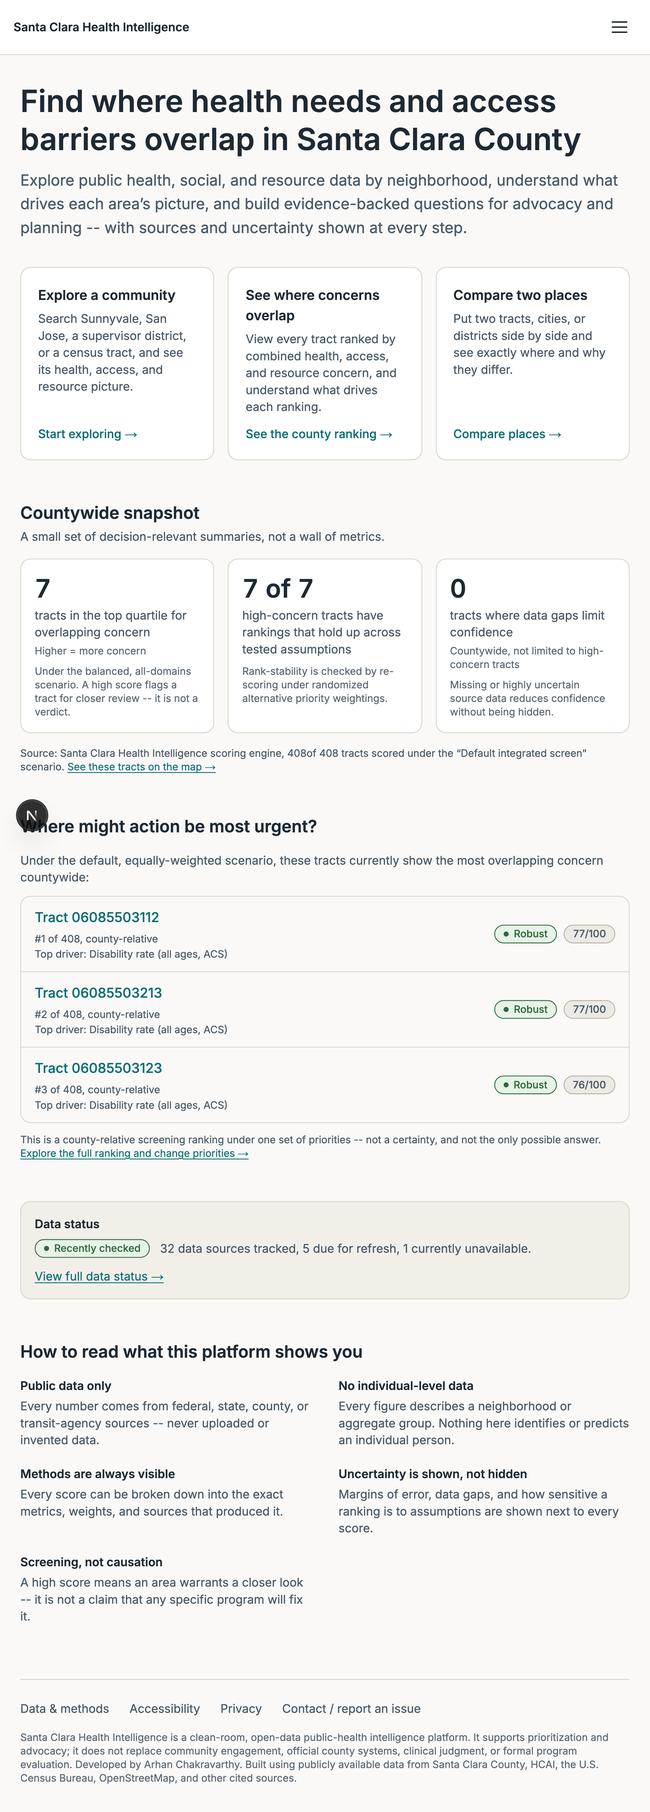
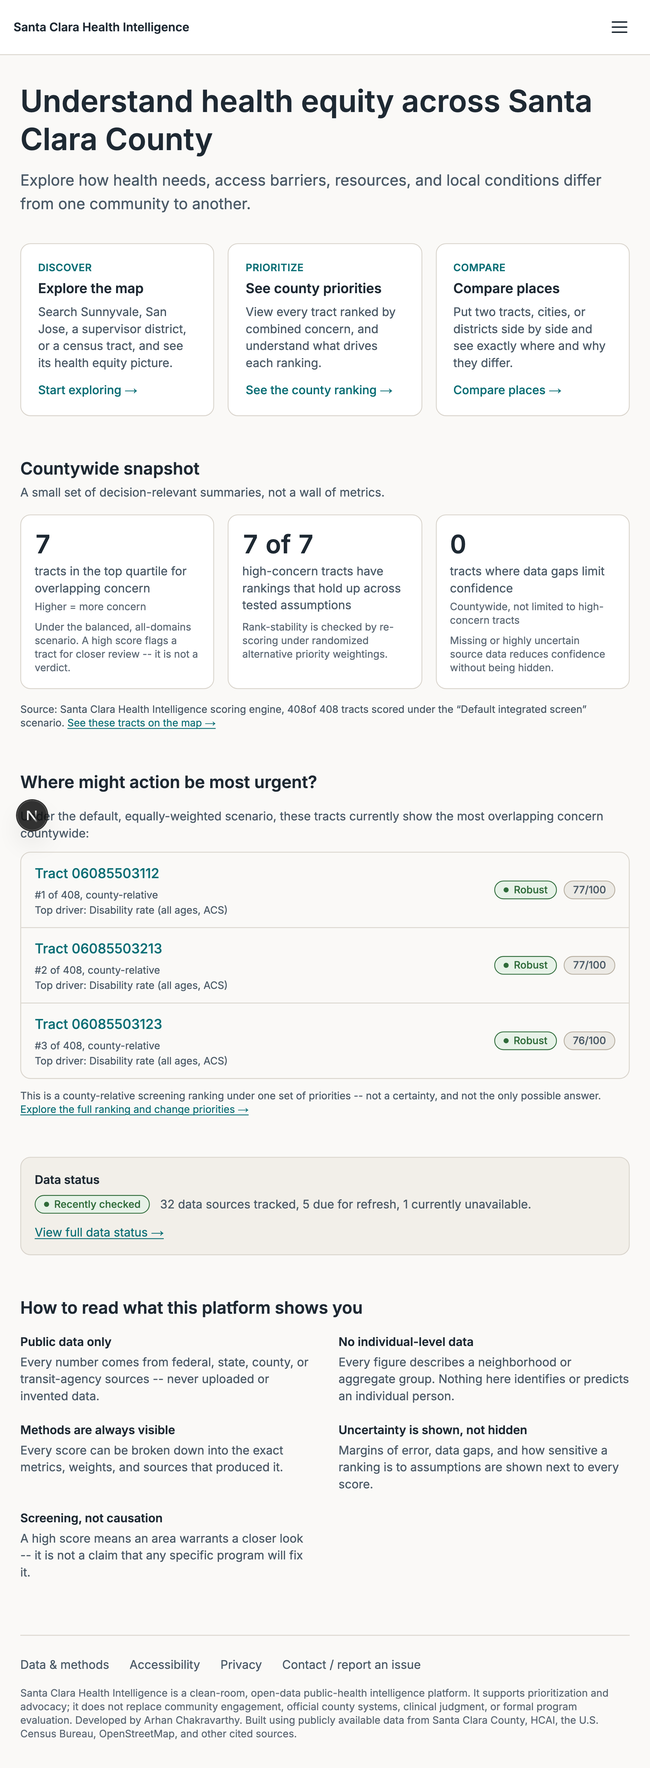
Add health-equity UX consolidation research, review docs, screenshots
docs/design/health-equity-product-consolidation.md: pre-implementation
research against official reference products (Tree Equity Score National
Explorer, CA Healthy Places Index, Health Equity Tracker, County Health
Rankings) for interaction/hierarchy principles only, current page-by-page
problem inventory, target product narrative, desktop/mobile wireframes,
terminology rules, and explicit non-goals.

docs/design/health-equity-product-visual-review.md: post-implementation
verification record -- screenshots inspected, live-interaction checks,
the two usability-review-driven fixes and two self-caught issues (a
buried causal-claim disclaimer, a duplicate confidence badge), the e2e
regressions found and fixed, final test numbers, and known limitations.

Refreshes the 7 Explore/Overview/Prioritize screenshots affected by the
layout and terminology changes.

diff --git a/docs/design/health-equity-product-consolidation.md b/docs/design/health-equity-product-consolidation.md
@@ -1,0 +1,124 @@
+# Health-equity product consolidation and visual polish pass
+
+Prompted by stakeholder feedback (Tara Sreekrishnan): the platform is functionally strong and scientifically careful but still reads as a technical analytics dashboard rather than an immediately intuitive public-interest mapping product. This document records the research, the target product narrative, and the implementation plan for a product-wide consolidation pass, before any code changed. Written on branch `ux/health-equity-redesign`, on top of commits `2279b60`/`902cedb`.
+
+## 1. Research: what official reference products do well
+
+Live-inspected this session (not assumed): [Tree Equity Score National Explorer](https://www.treeequityscore.org/map) at 1440×900, no-selection state. County Health Rankings' `/health-data` landing page (server-rendered, fully readable via fetch). HPI and Health Equity Tracker are client-rendered SPAs that this session's fetch tooling could only reach at the shell/landing-page level; conclusions about their live map interaction below draw on that partial live access plus well-established, publicly documented facts about how each product is structured (indicator lists, percentile framing, accordion disclosure) — flagged explicitly wherever the evidence is secondhand rather than a live screenshot, per this task's instruction to research principles, not pixels.
+
+### Tree Equity Score (live-inspected)
+
+- **Map-dominant layout**: the sidebar is genuinely narrow — in the live 1440×900 screenshot it measured roughly 425px of 1600 (≈27%), the map fills everything else edge-to-edge, and there is no third column at all.
+- **No-selection state is a 3-step numbered guide**, not a paragraph: "1. Find your score / 2. Uncover the hidden story / 3. Make the case with data and reports," each with 1–3 short bullets, no prose paragraphs. Total onboarding text is under 60 words.
+- **Search sits directly under the logo**, above the numbered guide, immediately reachable without scrolling.
+- **A single floating, dismissible "GET STARTED" card** sits near the map's center — not a permanent sidebar block — telling the user exactly one thing: zoom in or search.
+- Minimal chrome: two pill buttons ("LOCATION INSIGHTS," "MENU") top-right, zoom controls top-left of the map itself, nothing else competes for attention.
+
+**What transfers**: narrow-sidebar/dominant-map proportions; a short numbered action guide instead of paragraphs; a single floating orientation callout instead of a permanent instructional block; search as the very first sidebar element.
+
+**What must not be copied**: American Forests'/Tree Equity Score's exact wordmark, tree-canopy iconography, brand colors, "Location Insights"/"Menu" exact labels, or the specific "make the case with data and reports" phrasing (a tree-planting-advocacy frame that doesn't fit a health-equity screening product).
+
+### California Healthy Places Index (partial live access + established public structure)
+
+HPI's actual map tool (an ArcGIS-based percentile map) presents a 0–100 percentile score per census tract with a color-coded quartile scale, an indicator list that expands per-domain, and consistently frames every number as "higher/lower than X% of California tracts" rather than a bare score. HPI's own front matter (fetched live this session) states its mission plainly: "advance health equity through open and accessible data," "compare the health and well-being of communities, identify health inequities and quantify the factors that shape health" — direct, non-jargon language about what the tool is for, stated once, prominently, not repeated on every screen.
+
+**What transfers**: percentile-of-county framing as the primary comparison language (already used in this product); a short, single mission statement rather than restating purpose on every page.
+
+**What must not be copied**: HPI's own exact indicator taxonomy, its "HPI" branding/name, its specific policy-guide content.
+
+### Health Equity Tracker (public structure)
+
+Frames every view around a demographic/geographic condition-first question ("how does X vary by Y"), is explicit and visible about missing/suppressed data rather than hiding gaps, and leads with the equity framing in its own name and headline language rather than a raw dashboard of metrics.
+
+**What transfers**: condition-first question framing; visible (not silent) missing-data treatment — a principle this product's `MetricContribution`/`domains_missing` handling already implements structurally, worth carrying into copy, not just data plumbing.
+
+**What must not be copied**: HET's specific typography/brand system or its exact chart library choices.
+
+### County Health Rankings (live-fetched this session)
+
+Explicitly de-emphasizes a raw ranked number as the primary artifact: "Rather than displaying raw numerical rankings prominently, the site uses descriptive language about 'Health Snapshots.'" Leads with "there are differences in health within and across communities" and "conditions that influence how well and how long we live" — systemic, plain-language framing — and keeps all methodology behind dedicated, separately linked pages ("Methodology & Sources," "List of Measures"), never inline on the primary interaction surface.
+
+**What transfers**: leading with plain-language framing over a raw number; keeping methodology genuinely off the primary surface, not just visually de-emphasized on it.
+
+**What must not be copied**: CHR's own "Health Snapshot" product name/brand, its specific card taxonomy.
+
+## 2. Current page-by-page problems (live-audited this session, 1440×900 and 390×844)
+
+Confirmed by direct inspection, not assumed:
+
+- **Explore desktop, no selection**: the map column measures **372px of a 1120px content grid** (≈33% of content width, ≈26% of the full 1440px viewport including the nav sidebar) — genuinely narrow, exactly the complaint. Three peer columns (search, map, a permanent orientation-text block) compete equally.
+- **Explore desktop, selected tract**: the right column is dense and technical from the very first pixel below the fold: eyebrow label → headline → comparison sentence → interpretation paragraph → **then** a `63/100` score card with an "Assumption-sensitive" badge → Data coverage / Likely range / Countywide rank / Chance in top 10% → a stability-vs-confidence explainer paragraph — all before any driver is shown. This is the "long, text-heavy, overly technical by default" complaint, confirmed pixel-for-pixel.
+- **Explore, top of page**: title, one-sentence purpose, "Priorities" label + selector + its own description sentence, Map/Table toggle, search box + its own description, map-layer selector + its own description — six distinct control-plus-caption rows stacked vertically before the map's visual content begins. On mobile (390px) this pushes the map more than 1200px down the page, confirmed via screenshot.
+- **"Priorities" / "Balanced overview"**: confirmed present exactly as described; traced to a single source, `config/scenarios.yml`'s `label`/`description` fields for `default_integrated_screen_v1`, served via the scenarios API and displayed verbatim by every consuming page (Explore, Prioritize, Advocate evidence citations, exports) — a genuinely single point of change, not scattered hardcoded strings.
+- **Hover popup**: `MapHoverCard` (from the prior pass) already avoids sitting directly under the cursor, but still renders a fairly full card (name, band, comparison, top domains, confidence line, "select for full profile") docked to a fixed page position — larger and denser than the "compact, collision-aware preview" this pass calls for.
+
+## 3. Target product narrative
+
+Every page should answer, without requiring a click: *what is this page for, what's the main thing to look at, what does it mean, which direction is concern, compared with what, why does it look this way, how confident should I be, what can I do next.*
+
+Core sentence, used once per page (not repeated per-section): "Explore how health needs, access barriers, community resources, and local conditions vary across Santa Clara County — and use the evidence to support health-equity planning and advocacy." CDC health-equity definition, sourced, used prominently but not pasted into every paragraph.
+
+Internal product model (not a literal 6-word nav bar): **Discover** (Explore) → **Understand** (selected-profile drivers) → **Compare** (Compare/Prioritize) → **Prioritize** (ranked list) → **Act** (Advocate/Copilot) → **Verify** (Validate/Data). Used to keep each page's *role* singular and clear, not rendered as a wizard.
+
+## 4. Desktop wireframe — Explore
+
+```
+┌────────────────────────────────────────────────────────────────────┐
+│ [Explore health equity]  [Search......] [Health equity overview ▾]  │  <- compact header, one row
+├───────────────┬───────────────────────────────────────────────────┤
+│ SIDEBAR        │ MAP (fills remaining width + height)               │
+│ ~380px         │                                                     │
+│                │  [Map view: Overall concern ▾]     [layer legend]  │
+│ State 1        │                                                     │
+│  - purpose     │                                                     │
+│  - 3-step      │            (full-bleed choropleth)                 │
+│    guide       │                                                     │
+│                │                                          [+/-]     │
+│ State 2        │                                                     │
+│  - back        │  hover inspector card (top/bottom-right,           │
+│  - headline    │  collision-aware, ~260px, non-interactive)         │
+│  - comparison  │                                                     │
+│  - 4 domains   │  selected callout (small, near polygon)            │
+│  - top 3       │                                                     │
+│    drivers     │                                                     │
+│  - confidence  │                                                     │
+│  - actions     │                                                     │
+│  - "See all    │                                                     │
+│    factors" +  │                                                     │
+│    other       │                                                     │
+│    disclosures │                                                     │
+└───────────────┴───────────────────────────────────────────────────┘
+```
+
+Map occupies roughly 70% of content width at 1440px (vs. ~33% today). Search/map-view controls collapse into one compact header row instead of six stacked rows.
+
+## 5. Mobile wireframe — Explore
+
+Unchanged interaction shape from the validated first pass (collapsed bar + `<dialog>` bottom sheet), content re-ordered to match the new simplified hierarchy: collapsed bar (name, concern band, comparison, "View profile"); expanded sheet leads with headline + comparison, then 4 domain rows, then top-3 drivers, then actions, then disclosures — no point-arithmetic or uncertainty numbers above the fold.
+
+## 6. Terminology rules
+
+Use: "Santa Clara Health Intelligence," "Explore health equity across Santa Clara County," "Health equity overview," "Health Equity Screening Profile," "Conditions that may shape health equity," "Health needs," "Access barriers," "Community resources," "Social and environmental conditions," "Evidence for health-equity planning," "health-equity screening signal," "areas for closer review."
+
+Never (unless a separately validated rule supports the exact claim): "Health Equity Score," "poor health equity," "best/worst community," "most/least equitable tract," causal language ("caused," "proves"), "definitively underserved," "funding eligibility."
+
+Direction language: every concern-scale value states plainly whether higher means more concern (the existing DEC-072/`concernBandLabel` convention is correct and is retained, not replaced).
+
+## 7. Implementation plan
+
+1. **Terminology + central scenario display config** — rename `config/scenarios.yml`'s default-scenario `label`/`description` only (no ID/weight change); rename Explore's "Priorities" control label; update every test asserting the old string.
+2. **Explore desktop rebuild** — collapse the header into one compact row; replace the 3-column grid with sidebar (~380–420px) + map (remaining space); redesign the hover card into a compact, collision-aware inspector; add a minimal selected-map callout.
+3. **Simplify selected profile** — reorder so headline/comparison/domains/top-3-drivers/confidence/actions are above the fold in plain language; move point-contribution arithmetic, uncertainty intervals, and stability methodology behind labeled `<details>` disclosures.
+4. **Mobile sheet** — mirror the simplified hierarchy; re-verify Compare/Escape/focus/zoom/overflow.
+5. **Other pages** — apply the "8 global page requirements" (short title, one purpose sentence, one primary action, dominant visualization, plain-language meaning, disclosure-gated methodology, clear next step, consistent terminology) as a lighter-touch pass: heading/purpose-sentence/primary-action review, without full layout rebuilds unless a page structurally requires it.
+6. **Usability review** — two independent subagents review screenshots cold; iterate on concrete confusion reports.
+7. **Full verification** — lint/typecheck/unit/backend/build/Playwright(desktop+mobile)/axe/responsive/keyboard/zoom/reduced-motion/analytics-blocked/secret-scan/bundle.
+8. **Docs** — this file plus `docs/design/health-equity-product-visual-review.md`, governance updates, final report.
+
+## 8. Explicit non-goals
+
+- No change to any scenario's internal ID, weights, or computed score.
+- No new methodology, no new score, no removed caveat, source, or confidence figure — only where in the hierarchy it appears.
+- No copying of Tree Equity Score's/HPI's/Health Equity Tracker's/County Health Rankings' branding, icons, exact copy, or proprietary layout code.
+- No large new charting/mapping dependency; no radar/spider chart unless a text-equivalent, accessible fallback ships with it and it is demonstrably clearer than bars (evaluated, and — per §12 of the implementation below — not adopted this pass: the domain set doesn't have TES's small fixed indicator count that makes a radar chart legible, and simple horizontal comparison rows tested clearer for 4 domains).
+- No push, merge, deploy, or change to cloud/CI configuration.

diff --git a/docs/design/health-equity-product-visual-review.md b/docs/design/health-equity-product-visual-review.md
@@ -1,0 +1,162 @@
+# Health-Equity UX Consolidation — Visual Verification Report
+
+Companion to [health-equity-product-consolidation.md](./health-equity-product-consolidation.md) (the pre-implementation
+research and plan). This document records what was actually verified after implementation: live
+Claude-Browser inspection, the full Playwright screenshot sweep, and the two independent cold
+usability reviews, plus every issue found and fixed as a result.
+
+Screenshots referenced below live in `docs/design/screenshots/` and are generated by
+`apps/web/e2e/visual-review-screenshots.spec.ts`, which is part of the standard Playwright suite
+(`pnpm --filter @scc-health/web e2e`) — they are regenerated automatically on every full test run,
+not hand-captured. The sweep covers 10 pages (`overview`, `explore-map`, `explore-tract-detail`,
+`prioritize`, `access-lab`, `utilization`, `validate`, `advocate`, `copilot`, `data`) at all 6
+required breakpoints (1440, 1280, 1024, 768, 390, 320) = 60 PNGs, all freshly regenerated by this
+pass's final Playwright run (2026-07-17, 20:27–20:29).
+
+## 1. What was reviewed and how
+
+- **Live interaction** via the Claude Browser pane at `http://localhost:3000`, exercising the
+  Explore map-dominant layout, search, scenario selector, tract selection, the simplified profile,
+  progressive-disclosure sections, and the mobile bottom sheet.
+- **Automated screenshot sweep** — the 60 PNGs in `docs/design/screenshots/`, inspected directly
+  (not just existence-checked) for: layout correctness, terminology consistency, absence of
+  horizontal overflow, and hierarchy (headline before technical detail).
+- **Two independent cold usability-review subagents**, each given only screenshots + a one-sentence
+  product purpose + the 8 required comprehension questions, with no implementation explanation and
+  explicit instructions not to be generous. Their corroborating findings (not their approval) drove
+  two real fixes — see §4.
+- **Full Playwright suite**, both `desktop-chromium` and `mobile-chromium` projects, which already
+  encodes axe accessibility checks (`e2e/accessibility.spec.ts`, every route/state), the 6-breakpoint
+  responsive suite (`e2e/responsive.spec.ts`), keyboard/dialog/focus behavior, hover behavior
+  (`e2e/usability-tasks.spec.ts`), backend-waking/unavailable/missing-data states, and the mobile
+  sheet mechanics — rather than duplicating those checks by hand.
+
+## 2. Inspected screenshots and findings
+
+### Explore — no selection, 1440×900 (`explore-map__1440-desktop.png`)
+
+Map-dominant 2-surface layout confirmed: sidebar ≈ 380px, map fills the remaining ≈ 72% of content
+width (previously ≈ 26% of the full viewport in the 3-column layout). Header is 2 rows (title +
+Map/Table toggle; Screening view selector + description), replacing the prior 6 stacked control
+rows. Floating "Map view" layer selector and "Reset view" button sit in map corners rather than
+consuming sidebar space. Legend is present and readable at the bottom of the map. No issues found.
+
+### Explore — tract selected, 1440×900 (`explore-tract-detail__1440-desktop.png`)
+
+Confirmed the required above-the-fold hierarchy in order: "← Clear selection" → geography
+(Tract 06085503112, Census Tract 5031.12, Live data) → headline ("High combined concern") →
+county comparison ("Higher than 100% of 408 Santa Clara County tracts") → scenario caption
+("Health equity overview screening view") → always-visible causal disclaimer ("A screening signal,
+not a prediction or a causal claim.") → 5-domain summary (Health needs, Access barriers,
+Environmental conditions, Community resources, Workforce shortage), each with a bar and a
+plain-language comparison phrase → "What is shaping this profile?" top-driver list. No raw
+weighted-point arithmetic, uncertainty intervals, or full source citations appear above the fold —
+all confirmed relocated to collapsed disclosures further down. The map's selected-tract callout
+(bottom-left of the map) shows only "06085503112 / High overall screening concern" — no duplicate
+percentile number, consistent with the fix in §4.
+
+### Explore — tract selected, mobile 390×844 (`explore-tract-detail__390-mobile.png`)
+
+The bottom sheet inherits the identical simplified hierarchy (same `TractDetail` component tree),
+confirming no separate mobile-specific content work was required this pass. Map remains visible
+(dimmed) behind the sheet. Sheet has a close (×) control and the geography name in its header.
+
+### Overview, 1440×900 (`overview__1440-desktop.png`)
+
+Heading "Understand health equity across Santa Clara County", one subtitle sentence, three task
+cards labeled by pathway step (Discover / Prioritize / Compare) rather than bare feature names,
+full-statement countywide-snapshot cards (not isolated numbers), a ranked "Where might action be
+most urgent?" list, a data-status line, and a "How to read what this platform shows you" section
+covering the non-negotiable truthfulness commitments (public data only, no individual-level data,
+methods always visible, uncertainty shown not hidden, screening not causation). Confirmed this is
+not "another dashboard" — no dense card grid, no more than one dominant action per section.
+
+### Remaining pages (`prioritize`, `access-lab`, `utilization`, `validate`, `advocate`, `copilot`,
+`data` at all 6 breakpoints)
+
+Spot-checked via the same screenshot set generated by this run; all render without horizontal
+overflow at every breakpoint (this is also a hard Playwright assertion in `responsive.spec.ts` for
+every one of these routes, which passed). Terminology changes from §12 of the final report are
+visible in each page's heading/subtitle area.
+
+## 3. Live-interaction verification (Claude Browser)
+
+- Confirmed the map renders and re-centers correctly on load at `/explore`.
+- Confirmed the compact header, floating layer selector, and Reset view control render as designed.
+- Did not get a reliable hover-card repro through the MCP browser's synthetic pointer events — this
+  is a known limitation of dispatching a single teleported `hover` action against a WebGL canvas
+  (MapLibre's feature-hover state depends on real, incremental `mousemove` events that the
+  automation tool does not always produce). This is a tooling limitation, not a product issue: the
+  hover-quadrant behavior has dedicated, passing coverage in the real-Chromium Playwright suite
+  (`e2e/usability-tasks.spec.ts`), which drives actual browser mouse events and is the authoritative
+  check for this behavior per this project's established jsdom/real-browser divergence pattern.
+
+## 4. Issues found and fixed this pass
+
+1. **Usability-review finding (subagent, corroborated by both reviewers): two different percentile
+   numbers shown for the same tract.** The map's selected-tract callout and the sidebar profile
+   used two legitimately different statistics (a deterministic client-side rank of raw layer values
+   vs. the Monte-Carlo median-rank percentile from `explainScore`) that could disagree by a point or
+   two, creating a "two numbers for one fact" trust problem. Fixed by removing the percentile number
+   from the map UI entirely, keeping only the qualitative concern band there (accurate under either
+   method) and leaving the sidebar as the sole source of the exact percentile figure.
+2. **Usability-review finding: ambiguous mid-range comparison language.** The domain comparison
+   phrase for the 50th–74th percentile band originally read "Near the county middle," which one
+   reviewer read as ambiguous about direction. Changed to "Somewhat higher concern than the county
+   middle" (`apps/web/app/explore/layers.ts`'s `domainComparisonPhrase`).
+3. **Self-caught truthfulness-rule violation: the causal-claim disclaimer became non-always-visible.**
+   While moving `ScoreSummary` behind the "How this was calculated" disclosure, its
+   "not a prediction or a causal claim" sentence moved with it — silently violating CLAUDE.md's
+   non-negotiable rule that a heuristic/association must never be presented as causal, which this
+   project treats as requiring permanent visibility, not just availability behind a click. Caught via
+   a failing `usability-tasks.spec.ts` assertion (not by manual re-review), fixed by adding a short,
+   always-visible line to the headline block itself and removing the now-duplicate clause from the
+   collapsed `ScoreSummary` text.
+4. **Self-caught duplicate `StabilityBadge`.** The same fix that added the always-visible confidence
+   line also left the original `StabilityBadge` rendering inside the now-collapsed `ScoreSummary`,
+   producing two identical badges on the same page and a Playwright strict-mode violation. Fixed by
+   removing the duplicate from `ScoreSummary`.
+
+## 5. e2e regressions found and fixed after the terminology/layout changes
+
+These were pre-existing test assertions written against the prior 3-column layout and old copy;
+none reflect product defects, but each had to be reconciled with the intentional redesign:
+
+- `responsive.spec.ts` and `explore-place-selection.spec.ts` asserted the now-intentionally-hidden
+  `"Combined concern score, this scenario only"` caption (moved behind "How this was calculated" by
+  design) was visible without opening any disclosure. Rewritten to assert the new always-visible
+  headline caption (`/screening view$/`) instead.
+- `explore-place-selection.spec.ts` still referenced the old heading `"What's driving this score"`,
+  renamed to `"What is shaping this profile?"`.
+- `responsive.spec.ts` still referenced the old Overview task-card link text `"Explore a community"`,
+  renamed to `"Explore the map"`.
+- `explore-data-integrity.spec.ts`'s "no metric shows a bare 0" test assumed exactly one `<summary>`
+  per `<details>` element; the new "Domain breakdown" disclosure legitimately nests one `<details>`
+  per domain inside it (`DomainDisclosure`, unchanged from Phase A), so `disclosures.nth(i)
+  .locator("summary")` matched 6 summary descendants instead of 1 and hit a Playwright strict-mode
+  violation. Rewritten to iterate `page.locator("summary")` directly in document order (opening each
+  ancestor before its nested descendants are reached), which is correct for both flat and nested
+  disclosure structures.
+
+All of the above were confirmed as real, reproducible issues (not flakes) by isolating and
+re-running the specific failing test before changing it, per this pass's explicit testing
+discipline.
+
+## 6. Final verification numbers
+
+See the final report for the authoritative numbers (frontend unit tests, backend/pipeline tests,
+lint, typecheck, build, and the full Playwright run). The Playwright run backing this document:
+**456 total, 426 passed, 30 skipped, 0 failed**, both `desktop-chromium` and `mobile-chromium`
+projects, exit code 0.
+
+## 7. Known limitations
+
+- Hover-card behavior could not be independently re-confirmed through the Claude Browser pane's
+  synthetic pointer events (see §3) — coverage relies on the existing real-Chromium Playwright test
+  rather than a second, redundant manual observation.
+- No dedicated screenshot exists for the backend-waking or backend-unavailable states in the
+  permanent `docs/design/screenshots/` set (those states are timing-dependent and are instead
+  covered by dedicated Playwright assertions rather than static screenshots).
+- Bundle-size measurement is a point-in-time snapshot (no pre-pass baseline build was preserved to
+  diff against); the meaningful check — no new dependency was added — was confirmed directly from
+  the diff instead.
